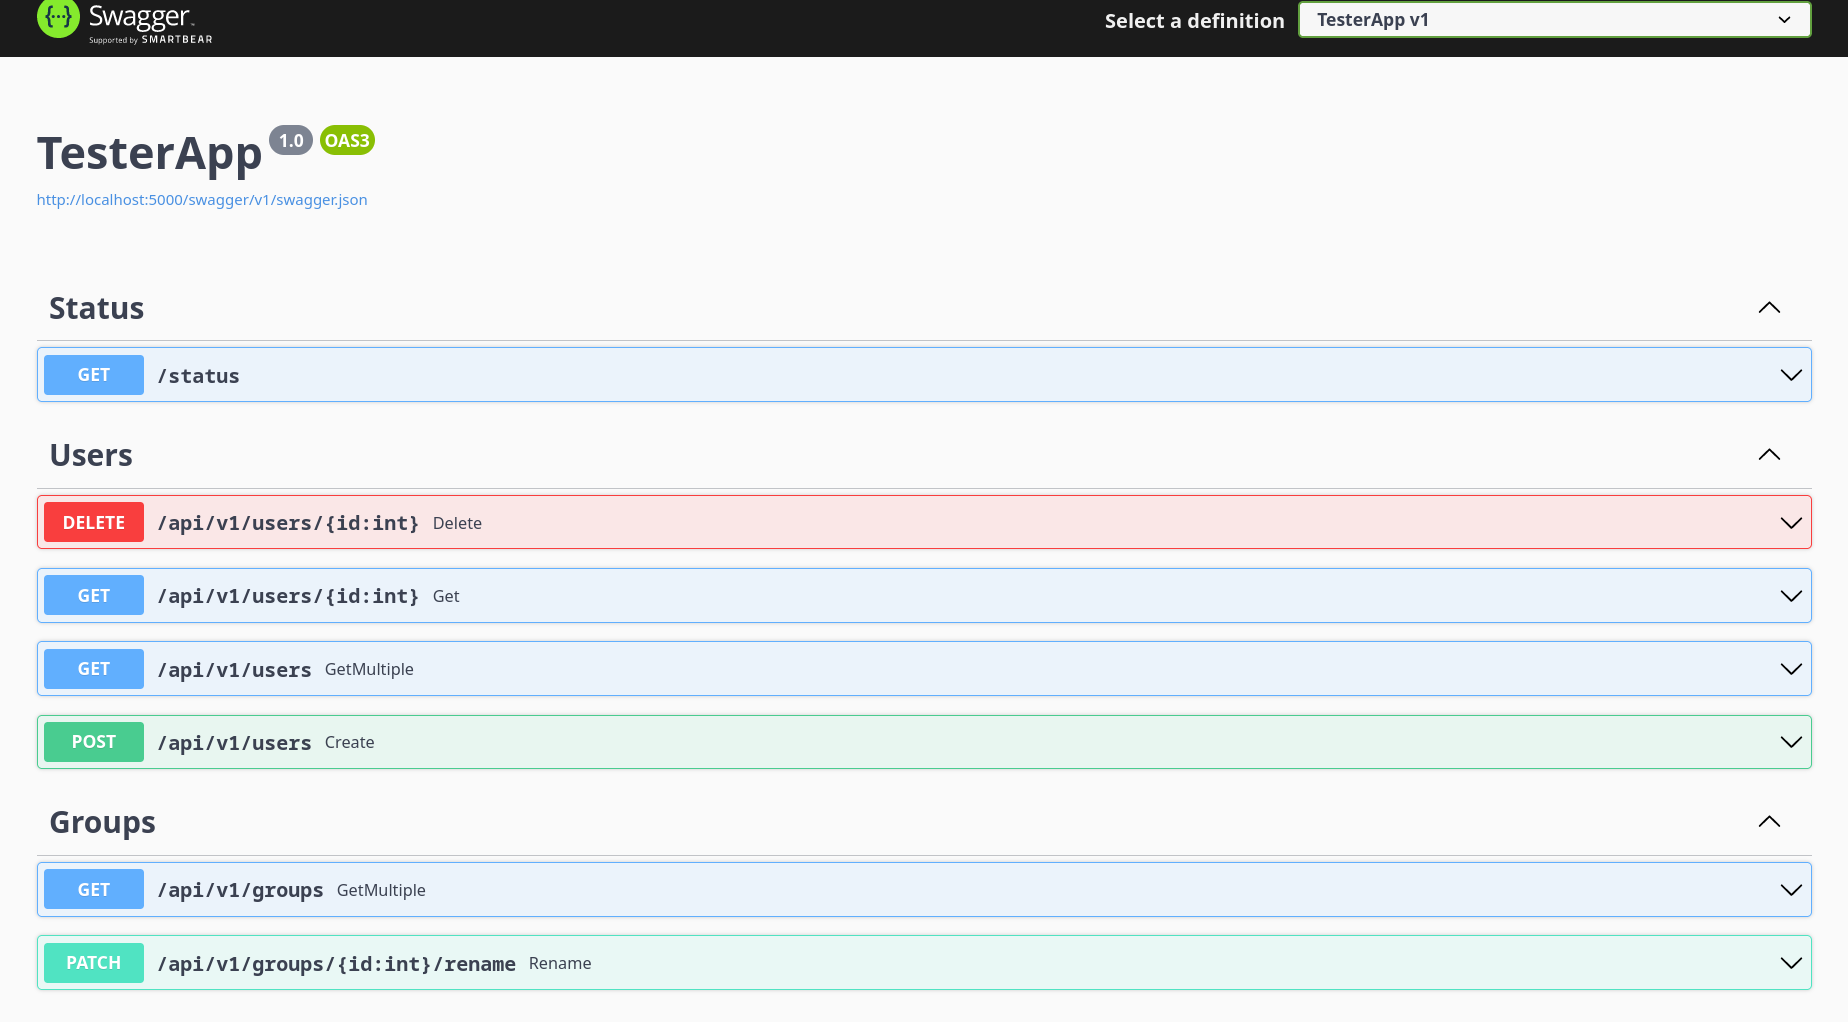
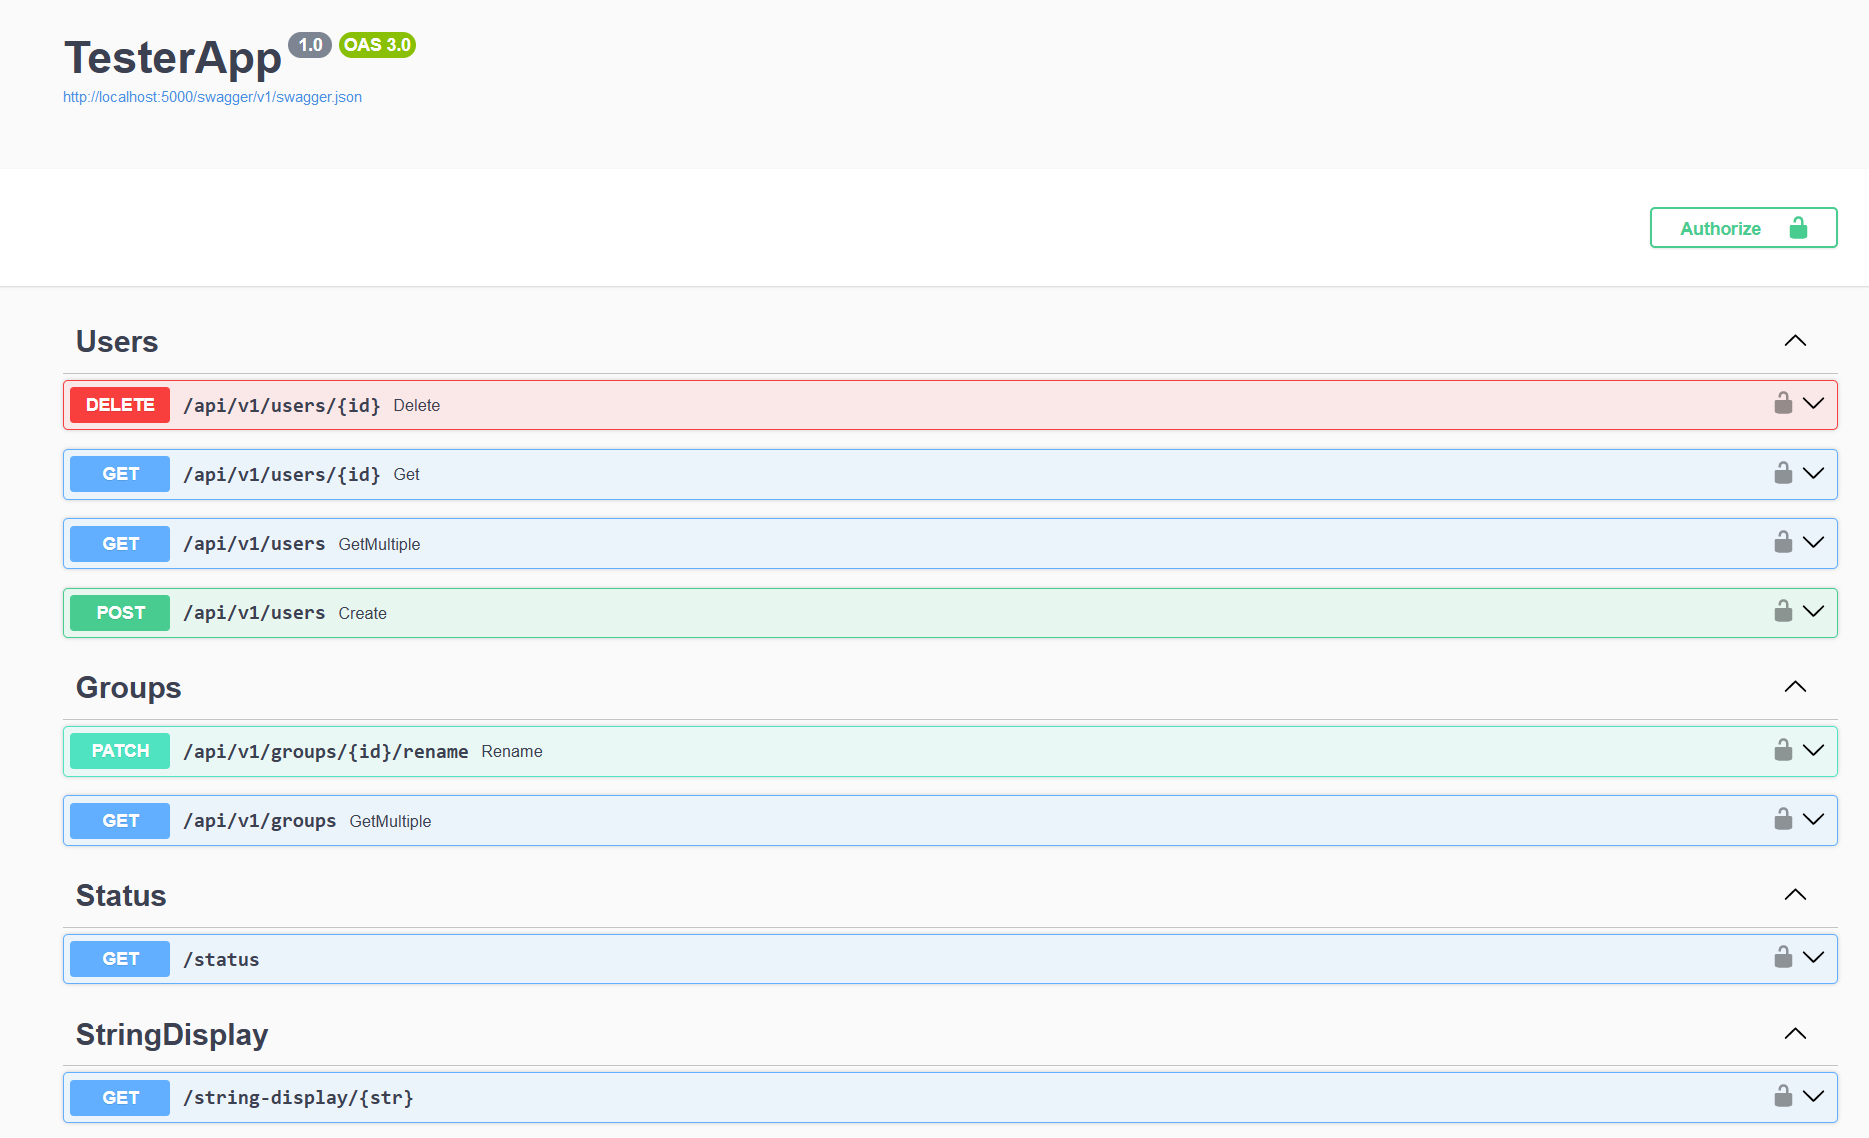
[edit] readme

diff --git a/README.md b/README.md
@@ -15,9 +15,9 @@
 1. Add `Simplify.Web.Swagger`, `Swashbuckle.AspNetCore.SwaggerGen` and `Swashbuckle.AspNetCore.SwaggerUI` packages to your project
 
 ```xml
-<PackageReference Include="Simplify.Web.Swagger" Version="0.1.*" />
-<PackageReference Include="Swashbuckle.AspNetCore.SwaggerGen" Version="6.3.*" />
-<PackageReference Include="Swashbuckle.AspNetCore.SwaggerUI" Version="6.3.*" />
+<PackageReference Include="Simplify.Web.Swagger" Version="1.0.*" />
+<PackageReference Include="Swashbuckle.AspNetCore.SwaggerGen" Version="6.6.*" />
+<PackageReference Include="Swashbuckle.AspNetCore.SwaggerUI" Version="6.6.*" />
 ```
 
 1. Add `AddSimplifyWebSwagger` in `AddSwaggerGen` registration and `Simplify.Web` controllers will be scanned during Swagger generation process.
@@ -45,11 +45,11 @@ app.Run();
 4. Add controller Swagger attributes (if needed)
 
 ```csharp
-[Get("/api/v1/users/{id:int}")]
+[Get("/api/v1/users/{id}")]
 [ApiVersion("1.0")]
 [ProducesResponse(StatusCodes.Status200OK, "application/json")]
 [ProducesResponse(StatusCodes.Status500InternalServerError)]
-public class GetController : Simplify.Web.Controller
+public class GetController : Controller2
 {
  ...
 }
